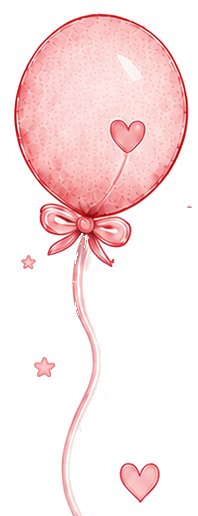
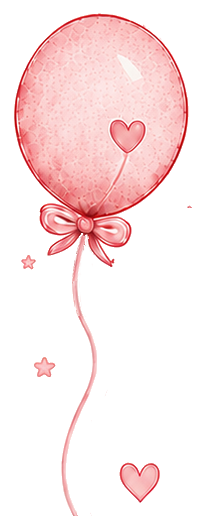
Added images

diff --git a/views/convite.html b/views/convite.html
@@ -4,37 +4,85 @@
 <meta charset="UTF-8">
 <meta name="viewport" content="width=device-width, initial-scale=1.0">
 <title>Convite - Chá Revelação</title>
-<!-- Importando fontes para o texto e para os nomes -->
 <link href="https://fonts.googleapis.com/css2?family=Dancing+Script:wght@700&family=Poppins:wght@300;400;600&display=swap" rel="stylesheet">
 <style>
 *{ margin:0; padding:0; box-sizing:border-box; }
 body{ 
     font-family:'Poppins',sans-serif; 
-    /* Fundo imitando o papel creme da imagem */
     background-color: #fdfaf5; 
     background-image: radial-gradient(#f0e4d8 1px, transparent 1px);
     background-size: 20px 20px;
     min-height:100vh; 
     display:flex; justify-content:center; align-items:center; 
     padding: 20px;
+    overflow-x: hidden;
 }
+
+/* O cartão principal precisa de posição relativa para segurar as imagens absolutas */
 .convite-container {
     background: #fdfaf5;
-    width: 100%; max-width: 500px;
+    width: 100%; max-width: 550px;
     border-radius: 30px;
-    padding: 40px 25px;
+    padding: 60px 30px 40px 30px; /* Mais espaço no topo para o laço */
     text-align: center;
     box-shadow: 0 15px 40px rgba(0,0,0,0.08);
     position: relative;
-    border: 2px solid #f9e1e6; /* Borda sutil */
+    border: 2px solid #f9e1e6;
     animation: fadeUp .8s ease;
+    margin-top: 40px; /* Espaço para o laço não cortar */
+    margin-bottom: 60px; /* Espaço para os ursos não cortarem */
 }
 
-.intro-text { color: #555; font-size: 0.95rem; line-height: 1.6; margin-bottom: 20px; }
+/* =========================================
+   POSICIONAMENTO DAS IMAGENS RECORTADAS
+   ========================================= */
+.img-laco {
+    position: absolute;
+    top: -40px; /* Sobe a imagem para ficar metade fora */
+    left: 50%;
+    transform: translateX(-50%);
+    width: 180px;
+    z-index: 10;
+}
+
+.img-balao-esq {
+    position: absolute;
+    top: 20px;
+    left: -40px; /* Fica um pouco para fora do cartão */
+    width: 100px;
+    animation: flutuar 3s ease-in-out infinite;
+}
+
+.img-balao-dir {
+    position: absolute;
+    top: 20px;
+    right: -40px;
+    width: 100px;
+    animation: flutuar 3.5s ease-in-out infinite reverse; /* Tempo diferente para parecer natural */
+}
+
+.img-urso-esq {
+    position: absolute;
+    bottom: -50px;
+    left: -40px;
+    width: 160px;
+    z-index: 10;
+}
+
+.img-urso-dir {
+    position: absolute;
+    bottom: -50px;
+    right: -40px;
+    width: 160px;
+    z-index: 10;
+}
+
+/* ========================================= */
+
+.intro-text { color: #555; font-size: 0.95rem; line-height: 1.6; margin-bottom: 20px; position: relative; z-index: 2; }
 .descobrir-text { color: #d66476; font-size: 1.1rem; font-weight: 600; margin-bottom: 10px; }
 
-/* Estilo dos nomes parecido com a imagem */
-.nomes-container { font-family: 'Dancing Script', cursive; font-size: 3.5rem; line-height: 1; margin-bottom: 20px; }
+.nomes-container { font-family: 'Dancing Script', cursive; font-size: 3.5rem; line-height: 1; margin-bottom: 20px; position: relative; z-index: 2; }
 .nome-rosa { color: #f07b92; }
 .nome-azul { color: #4da6e7; }
 .ou-text { font-family: 'Poppins', sans-serif; font-size: 1.2rem; color: #888; font-weight: 300; margin: 0 10px; }
@@ -44,56 +92,63 @@ body{
 .div-rosa { background: #f07b92; }
 .div-azul { background: #4da6e7; }
 
-.info-box { margin-bottom: 25px; color: #444; }
+.info-box { margin-bottom: 25px; color: #444; position: relative; z-index: 2; }
 .data-texto { font-size: 1.8rem; font-weight: 400; color: #555; }
-.hora-texto { color: #d66476; font-size: 1.1rem; }
-.local-texto { margin-top: 15px; font-weight: 600; color: #d66476;}
+.hora-texto { color: #d66476; font-size: 1.1rem; margin-bottom: 15px; }
+.local-texto { font-weight: 600; color: #d66476;}
 .local-sub { font-size: 1.1rem; color: #444; }
 
 .btn { 
-    display: block; width: 100%; max-width: 300px; margin: 10px auto; 
+    display: block; width: 100%; max-width: 250px; margin: 10px auto; 
     padding: 12px 20px; font-size: 16px; font-weight: 600; border-radius: 50px; 
     text-decoration: none; cursor: pointer; transition: 0.3s; 
     font-family:'Poppins',sans-serif; text-align: center;
+    position: relative; z-index: 15; /* Z-index alto para o urso não bloquear o clique */
 }
-.btn-mapa { 
-    background-color: transparent; color: #4da6e7; 
-    border: 2px solid #4da6e7; 
-}
+.btn-mapa { background-color: transparent; color: #4da6e7; border: 2px solid #4da6e7; }
 .btn-mapa:hover { background-color: #4da6e7; color: white; }
 
-.botoes-confirmacao { display: flex; gap: 10px; justify-content: center; margin-top: 15px; }
-.btn-sim { background-color: #fcf9f2; color: #d66476; border: 2px solid #d66476; flex: 1; }
+.botoes-confirmacao { display: flex; gap: 10px; justify-content: center; margin-top: 15px; position: relative; z-index: 15; }
+.btn-sim { background-color: #fcf9f2; color: #d66476; border: 2px solid #d66476; flex: 1; padding: 12px; font-weight: bold; border-radius: 50px; cursor: pointer; transition: 0.3s; }
 .btn-sim:hover { background-color: #d66476; color: white; }
-.btn-nao { background-color: transparent; color: #999; border: 1px solid #ccc; flex: 1; }
+.btn-nao { background-color: transparent; color: #999; border: 1px solid #ccc; flex: 1; padding: 12px; border-radius: 50px; cursor: pointer; transition: 0.3s;}
 
 .presente-box {
     margin-top: 30px;
-    background: #fcf6f7;
+    background: #fdfaf5;
     border: 2px dashed #f07b92;
     border-radius: 15px;
     padding: 15px;
+    position: relative; z-index: 15;
 }
 .presente-title { color: #d66476; font-size: 0.9rem; margin-bottom: 5px; }
-.presente-item { font-size: 1.2rem; font-weight: 600; color: #444; }
+.presente-item { font-size: 1.2rem; font-weight: 600; color: #444; margin-bottom: 10px; }
 
-/* Decorativos */
-.decoracao-top { display: flex; justify-content: space-between; font-size: 2rem; margin-bottom: 10px; }
-.decoracao-bot { display: flex; justify-content: space-between; font-size: 2.5rem; margin-top: -20px; margin-bottom: 20px;}
+/* Flexbox para colocar as imagens dos presentes lado a lado */
+.presente-imagens { display: flex; justify-content: center; gap: 15px; align-items: center; }
+.presente-imagens img { height: 50px; object-fit: contain; }
 
 @keyframes fadeUp{ from{ opacity:0; transform:translateY(30px); } to{ opacity:1; transform:translateY(0); } }
+@keyframes flutuar { 0% { transform: translateY(0); } 50% { transform: translateY(-15px); } 100% { transform: translateY(0); } }
+
+/* Responsividade para telas menores */
+@media(max-width: 500px) {
+    .img-balao-esq, .img-balao-dir { width: 70px; top: 10px; }
+    .img-urso-esq, .img-urso-dir { width: 110px; bottom: -30px; }
+    .img-laco { width: 140px; top: -30px; }
+}
 </style>
 </head>
 <body>
 
 <div class="convite-container">
     
-    <div class="decoracao-top">
-        <span>🎀</span><span>🎈</span>
-    </div>
-
+    <!-- Imagens Decorativas -->
+    <img src="/laco.png" alt="Laço" class="img-laco" onerror="this.style.display='none'">
+    <img src="/balao-rosa.png" alt="Balão Rosa" class="img-balao-esq" onerror="this.style.display='none'">
+    <img src="/balao-azul.png" alt="Balão Azul" class="img-balao-dir" onerror="this.style.display='none'">
+    
     <p class="intro-text">
-        Olá, <%= convidado.nome %>!<br>
         Estamos vivendo o nosso maior sonho e queremos compartilhar com você esse momento único!
     </p>
 
@@ -113,35 +168,65 @@ body{
 
     <div class="info-box">
         <div class="data-texto">📅 16 de agosto</div>
-        <div class="hora-texto">às 16:00 da tarde 🕒</div>
+        <div class="hora-texto">às 16:00 da tarde</div>
         <div class="local-texto">Local:</div>
-        <div class="local-sub">📍 Espaço de Eventos Festheje</div>
+        <div class="local-sub">Espaço de Eventos Festheje</div>
     </div>
 
-    <!-- Substitua o link do href pelo link do Google Maps do local -->
     <a href="https://maps.google.com/?q=Espaço+de+Eventos+Festheje" target="_blank" class="btn btn-mapa">👆 VER NO MAPA</a>
 
     <% if (convidado.confirmado === true) { %>
-        <p style="margin-top: 20px; color: #6fd18f; font-weight: 600;">✅ Você já confirmou sua presença!</p>
+        <p style="margin-top: 20px; color: #6fd18f; font-weight: 600; position: relative; z-index: 15;">✅ Você já confirmou sua presença!</p>
+        <%= convidado.nome %>!
     <% } else if (convidado.confirmado === false) { %>
-        <p style="margin-top: 20px; color: #ff758c; font-weight: 600;">❌ Você informou que não poderá ir.</p>
+        <p style="margin-top: 20px; color: #ff758c; font-weight: 600; position: relative; z-index: 15;">❌ Você informou que não poderá ir.</p>
     <% } else { %>
         <form action="/confirmar" method="POST" class="botoes-confirmacao">
             <input type="hidden" name="chave" value="<%= convidado.chave %>">
-            <button type="submit" name="resposta" value="sim" class="btn btn-sim">👆 Confirmar Presença</button>
-            <button type="submit" name="resposta" value="nao" class="btn btn-nao">Não irei</button>
+            <button type="submit" name="resposta" value="sim" class="btn-sim">👆 Confirmar Presença</button>
+            <button type="submit" name="resposta" value="nao" class="btn-nao">Não irei</button>
         </form>
     <% } %>
 
     <div class="presente-box">
         <div class="presente-title">♡ Sugestão de presentes ♡</div>
-        <!-- Aqui a mágica acontece: Puxa o presente específico do banco de dados! -->
-        <div class="presente-item">🎁 <%= convidado.presente || 'Sua presença é nosso maior presente!' %></div>
+        
+        <!-- Exibe o Presente 1 + Presente 2 -->
+        <div class="presente-item">
+            <%= convidado.presente1 %> <span style="color: #f07b92;">+</span> <%= convidado.presente2 %>
+        </div>
+        
+        <!-- Lógica Dinâmica das Imagens do Presente -->
+        <% 
+            let textoFralda = (convidado.presente1 || '').toLowerCase(); 
+            let textoMimo = (convidado.presente2 || '').toLowerCase(); 
+        %>
+        <div class="presente-imagens">
+            <!-- Imagem da fralda baseada no presente 1 -->
+            <% if(textoFralda.includes('fralda')) { %>
+                <img src="/fralda.png" alt="Fralda" onerror="this.style.display='none'">
+            <% } %>
+            
+            <!-- Imagem extra baseada no presente 2 -->
+            <% if(textoMimo.includes('pomada')) { %>
+                <img src="/pomada.png" alt="Pomada" onerror="this.style.display='none'">
+            <% } %>
+
+            <% if(textoMimo.includes('lenço') || textoMimo.includes('lenco')) { %>
+                <img src="/lenco.png" alt="Lenço" onerror="this.style.display='none'">
+            <% } %>
+            
+            <% if(textoMimo.includes('sabonete') || textoMimo.includes('shampoo') || textoMimo.includes('banho')) { %>
+                <img src="/sabonete.png" alt="Kit Banho" onerror="this.style.display='none'">
+            <% } %>
+            
+             <!-- Você pode ir adicionando as imagens extras na sua pasta public depois -->
+        </div>
     </div>
 
-    <div class="decoracao-bot">
-        <span>🧸</span><span>🧸</span>
-    </div>
+    <!-- Ursos no rodapé -->
+    <img src="/urso-esq.png" alt="Urso Rosa" class="img-urso-esq" onerror="this.style.display='none'">
+    <img src="/urso-dir.png" alt="Urso Azul" class="img-urso-dir" onerror="this.style.display='none'">
 
 </div>
 